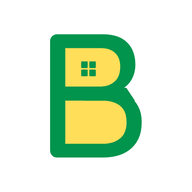
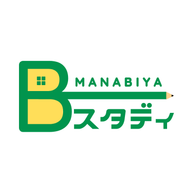
タブのアイコンをBの拡大からロゴ全体に変更
Claude-Session: https://claude.ai/code/session_01Jquj9S4VFN4shg8Rg8VEiV

diff --git a/index.html b/index.html
@@ -11,10 +11,10 @@
   <meta name="robots" content="index, follow, max-image-preview:large, max-snippet:-1">
   <link rel="canonical" href="https://recruit.beducate.jp/">
   <meta name="google-site-verification" content="dlpIHWfIiP74WfUsqihjPK-x8PNMVAnnRmm6mk9q0f4">
-  <link rel="icon" href="/favicon.ico" sizes="48x48">
-  <link rel="icon" href="/images/icon-192.png" type="image/png" sizes="192x192">
-  <link rel="apple-touch-icon" href="/images/apple-touch-icon.png">
-  <link rel="manifest" href="/site.webmanifest">
+  <link rel="icon" href="/favicon.ico?v=2" sizes="48x48">
+  <link rel="icon" href="/images/icon-192.png?v=2" type="image/png" sizes="192x192">
+  <link rel="apple-touch-icon" href="/images/apple-touch-icon.png?v=2">
+  <link rel="manifest" href="/site.webmanifest?v=2">
 
   <!-- OGP / Twitter -->
   <meta property="og:type" content="website">
